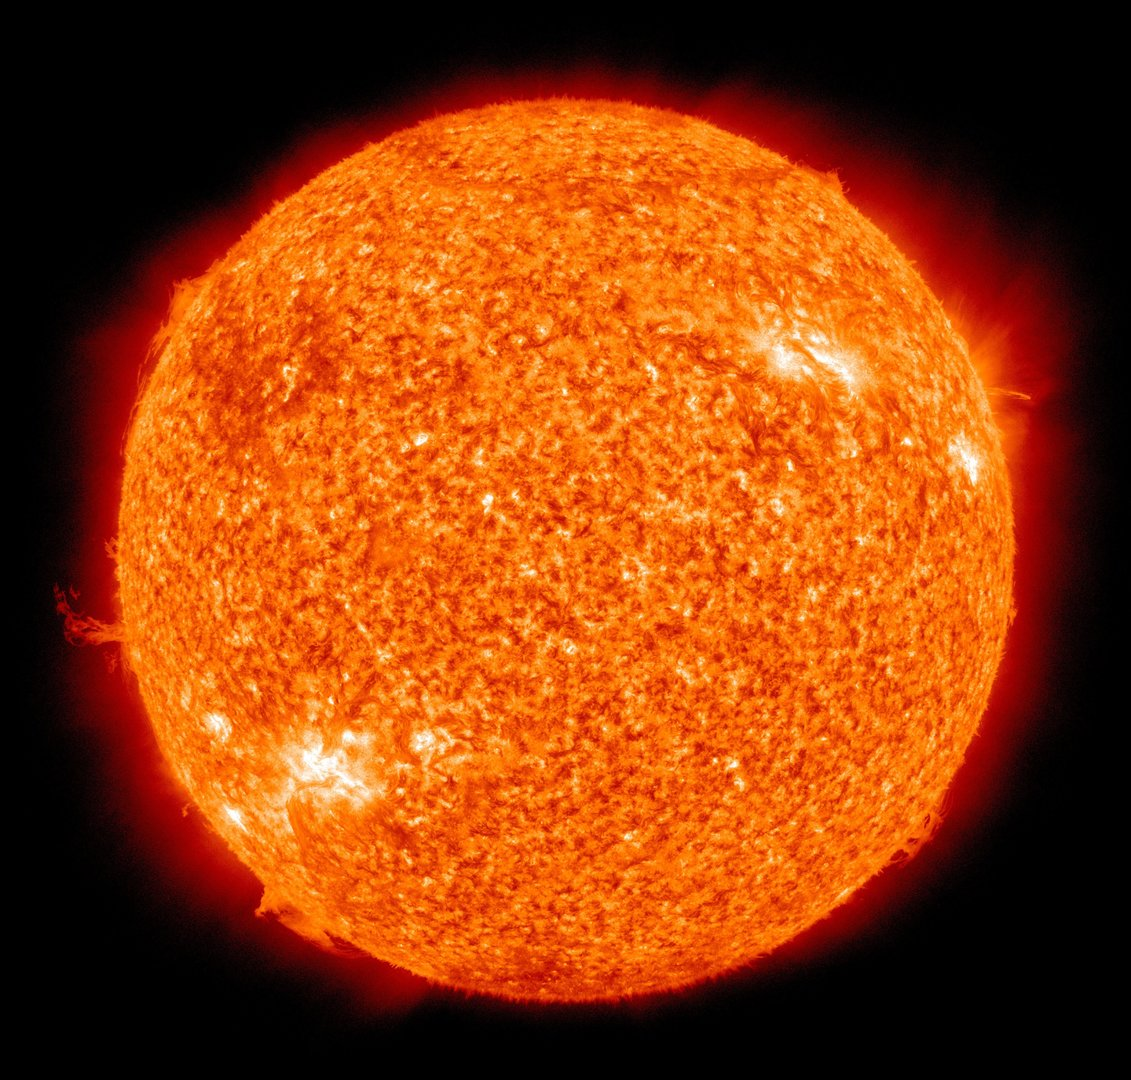
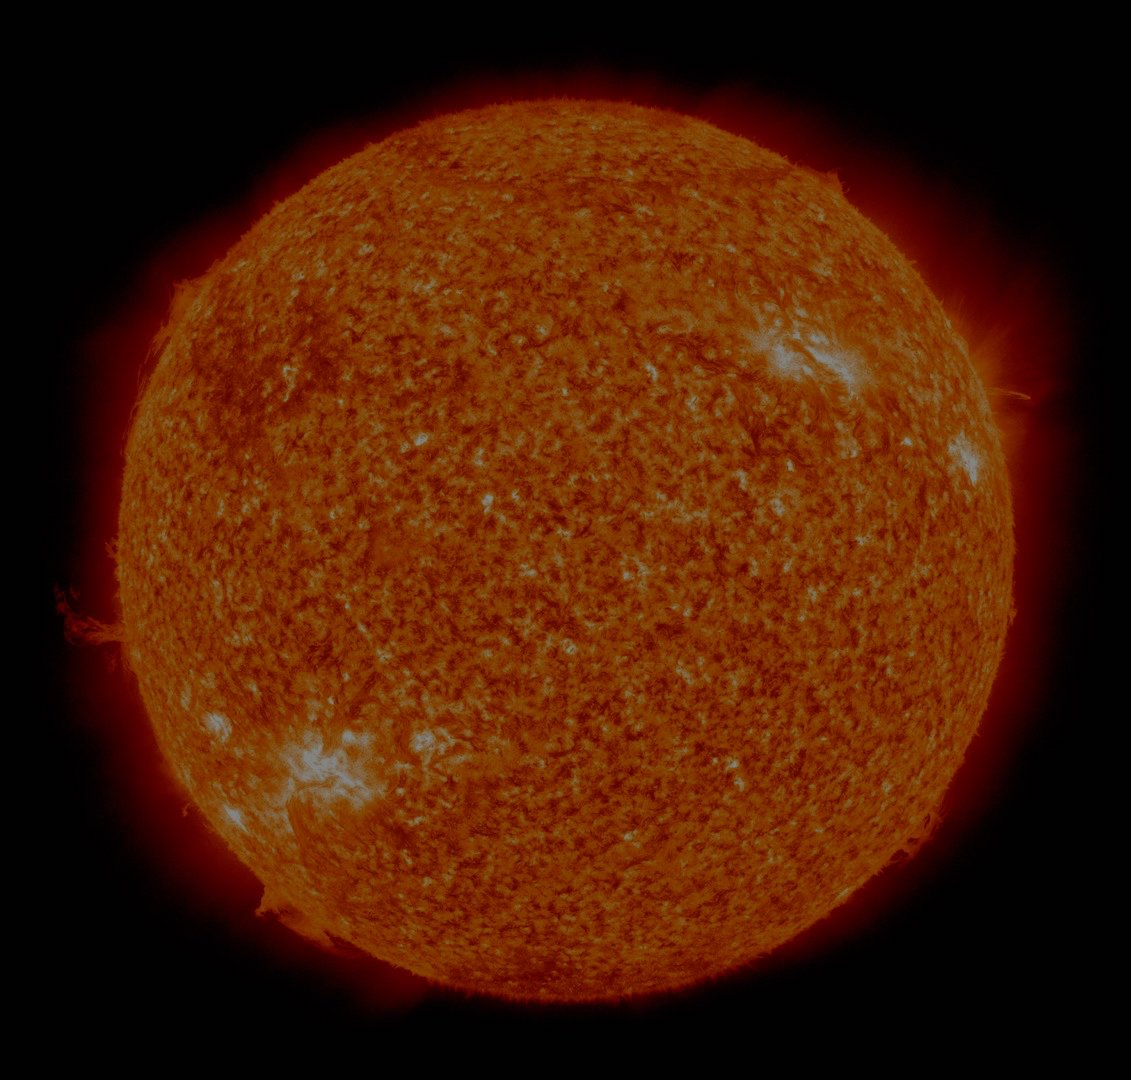
optimize sun image

diff --git a/css/style.css b/css/style.css
@@ -101,8 +101,7 @@ p {
 }
 
 .goals {
-  background: linear-gradient(rgba(0,0,0,0.5), rgba(0,0,0,0.5)),
-              url(../img/sun.jpg) no-repeat 10vh / 150%;
+  background: url(../img/sun.jpg) no-repeat 10vh / 150%;
 }
 
 .goal {
@@ -311,8 +310,7 @@ footer {
   }
   
 .goals {
-  background: linear-gradient(rgba(0,0,0,0.5), rgba(0,0,0,0.5)),
-              url(../img/sun.jpg) no-repeat 30vw / 130%;
+  background: url(../img/sun.jpg) no-repeat 30vw / 130%;
 }
   
   .job {
